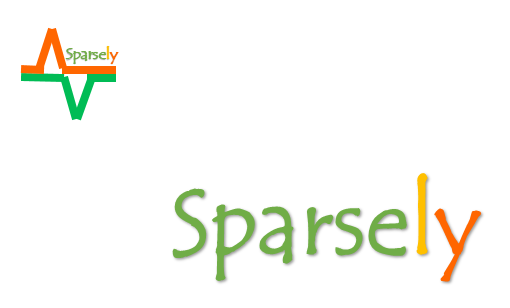
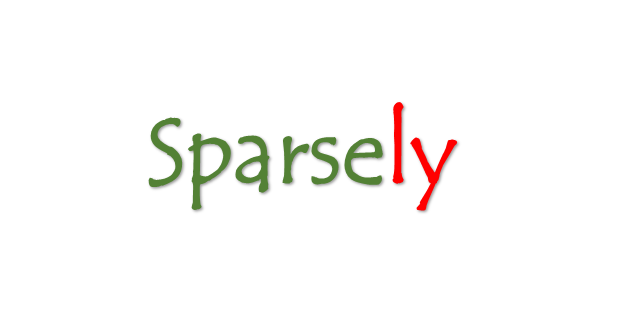
change icos

Changed region(s): [[0.3235, 0.5552, 0.9412, 0.9351], [0.2353, 0.2922, 0.7353, 0.6429], [0.0294, 0.0877, 0.2353, 0.4091]]

diff --git a/softwares/sparsely/labmainwindow.cpp b/softwares/sparsely/labmainwindow.cpp
@@ -73,7 +73,7 @@ namespace sparsely
         QPixmap pixmap(":/images/welcome.png");
         topLevelLabel->setPixmap(pixmap);
         topLevelLabel->setMask(pixmap.mask());
-        welcomeWidgeLayout->addWidget(topLevelLabel);
+        welcomeWidgeLayout->addWidget(topLevelLabel, 0, Qt::AlignCenter);
 
         m_WelcomeWidget->setStyleSheet("background-color: white;");
 
